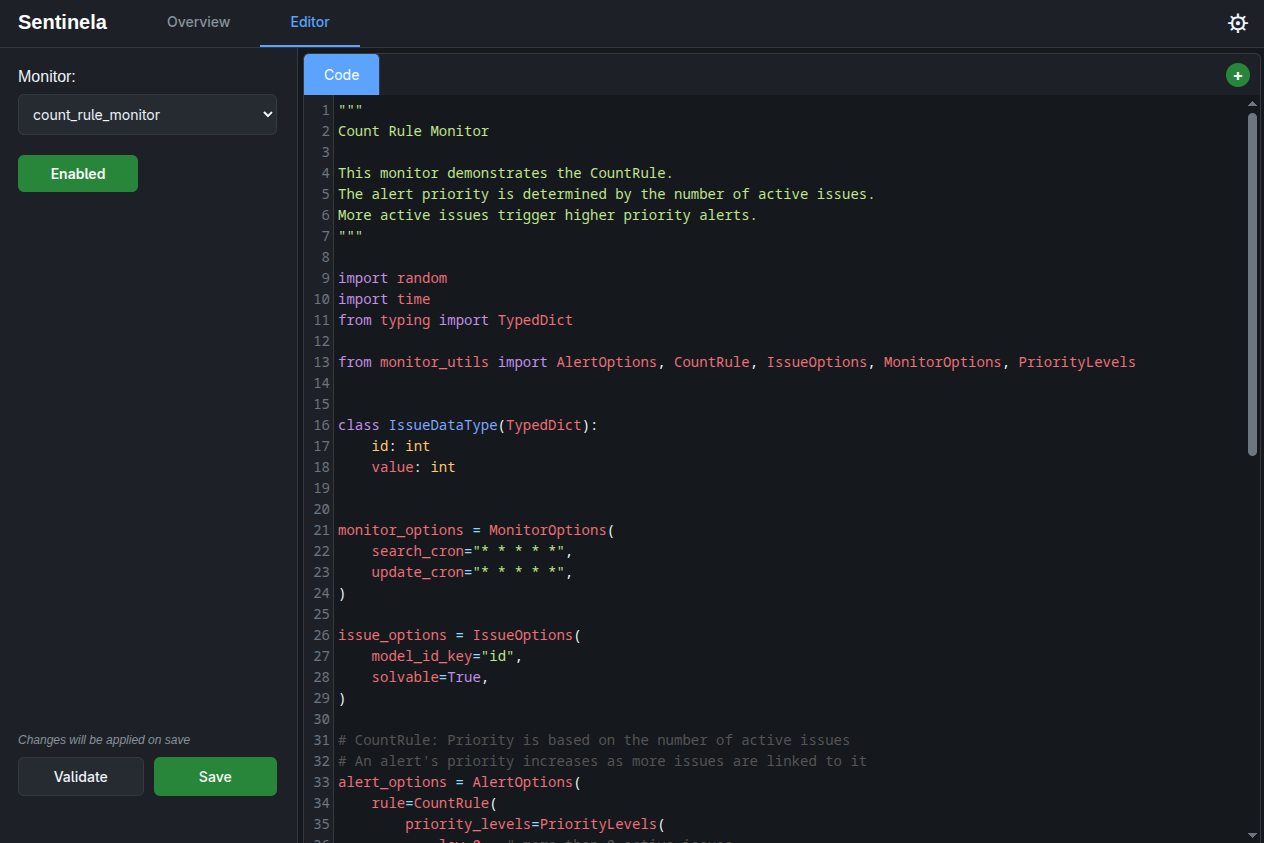
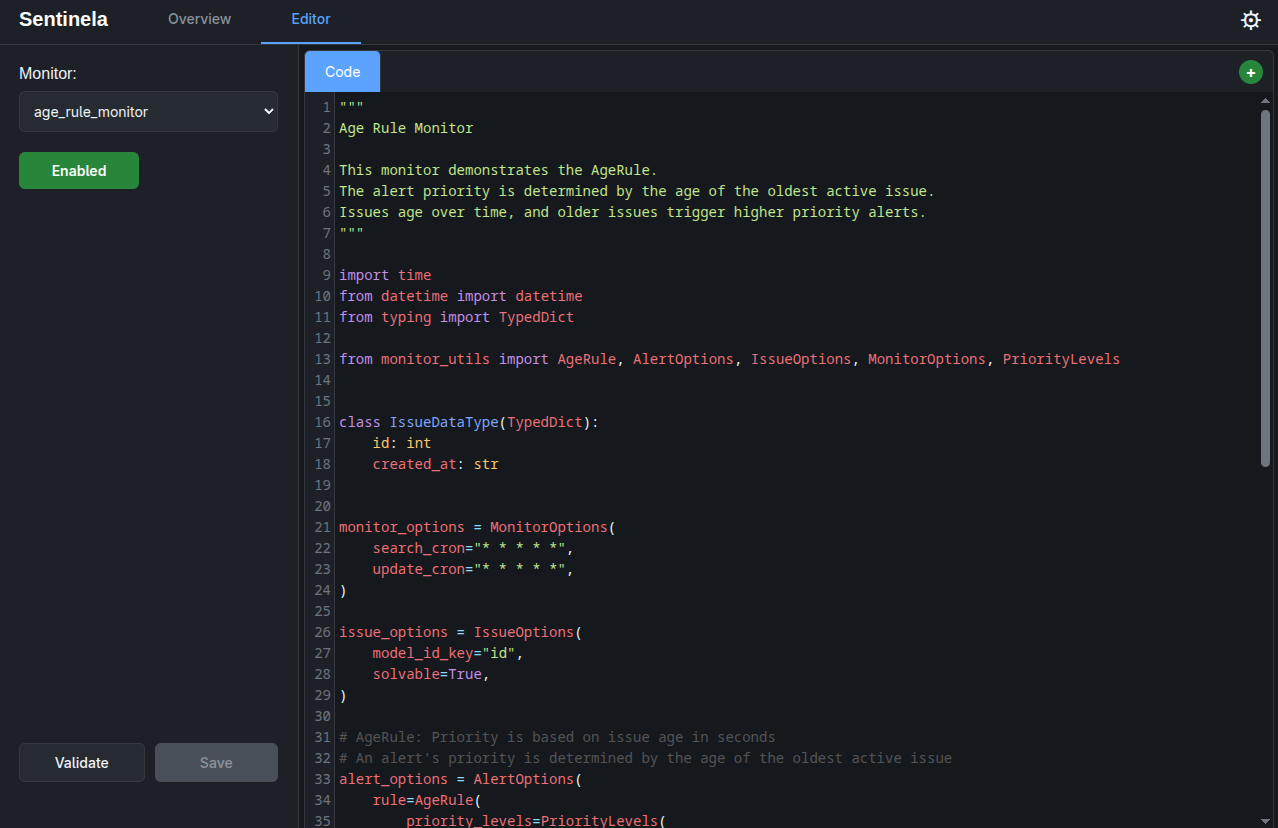
add monitor documentation to dashboard

diff --git a/src/components/http_server/dashboard/css/styles.css b/src/components/http_server/dashboard/css/styles.css
@@ -73,11 +73,18 @@ body {
     border-bottom-color: #58a6ff;
 }
 
+#overview-section {
+    display: flex;
+    flex-direction: column;
+    height: calc(100vh - 50px);
+}
+
 .overview-container {
     display: flex;
     gap: 0;
-    padding: 5px;
-    height: calc(100vh - 50px);
+    padding: 5px 5px 0;
+    flex: 1;
+    min-height: 0;
     overflow: hidden;
     position: relative;
 }
@@ -972,28 +979,33 @@ option.monitor-disabled {
     background-color: #58a6ff;
 }
 
-/* List container scrollbar styling (overview columns) */
-.list-container {
+/* Shared scrollbar styling */
+.list-container,
+.doc-section-body {
     scrollbar-color: #6e7681 #161b22;
     scrollbar-width: thin;
 }
 
-.list-container::-webkit-scrollbar {
+.list-container::-webkit-scrollbar,
+.doc-section-body::-webkit-scrollbar {
     width: 8px;
     height: 8px;
 }
 
-.list-container::-webkit-scrollbar-track {
+.list-container::-webkit-scrollbar-track,
+.doc-section-body::-webkit-scrollbar-track {
     background: #161b22;
 }
 
-.list-container::-webkit-scrollbar-thumb {
+.list-container::-webkit-scrollbar-thumb,
+.doc-section-body::-webkit-scrollbar-thumb {
     background-color: #6e7681;
     border-radius: 6px;
     border: 2px solid #0d1117;
 }
 
-.list-container::-webkit-scrollbar-thumb:hover {
+.list-container::-webkit-scrollbar-thumb:hover,
+.doc-section-body::-webkit-scrollbar-thumb:hover {
     background-color: #58a6ff;
 }
 
@@ -1094,4 +1106,180 @@ option.monitor-disabled {
 .json-null {
     color: #ff7b72;
     font-style: italic;
+}
+
+.resize-handle-h {
+    height: 10px;
+    cursor: row-resize;
+    flex-shrink: 0;
+    position: relative;
+    display: flex;
+    align-items: center;
+    justify-content: center;
+    user-select: none;
+}
+
+.resize-handle-h::before {
+    display: none;
+}
+
+.doc-section {
+    border: 1px solid #30363d;
+    border-radius: 6px;
+    background-color: #161b22;
+    margin: 0 5px 5px;
+    display: flex;
+    flex-direction: column;
+    min-height: 60px;
+    max-height: 50vh;
+    flex: 0 0 auto;
+}
+
+.doc-section.collapsed {
+    min-height: 0;
+    height: auto !important;
+    margin-top: 10px;
+}
+
+.doc-section-header {
+    display: flex;
+    align-items: center;
+    gap: 10px;
+    padding: 10px 16px;
+    border-bottom: 1px solid #30363d;
+    background-color: #1c2128;
+    flex-shrink: 0;
+    cursor: pointer;
+    user-select: none;
+}
+
+.doc-section.collapsed .doc-section-header {
+    border-bottom: none;
+}
+
+.doc-section-header h3 {
+    color: #f0f6fc;
+    font-size: 14px;
+    font-weight: 600;
+    margin: 0;
+}
+
+.doc-section-subtitle {
+    color: #8b949e;
+    font-size: 12px;
+}
+
+.doc-section-body {
+    padding: 12px 16px 16px;
+    overflow-y: auto;
+    color: #f0f6fc;
+    font-size: 14px;
+    line-height: 1.6;
+    scrollbar-color: #6e7681 #161b22;
+    scrollbar-width: thin;
+}
+
+.doc-section-body :first-child {
+    margin-top: 0;
+}
+
+.doc-section-body h1,
+.doc-section-body h2,
+.doc-section-body h3,
+.doc-section-body h4,
+.doc-section-body h5,
+.doc-section-body h6 {
+    color: #f0f6fc;
+    margin: 16px 0 8px;
+    font-weight: 600;
+}
+
+.doc-section-body h1 { font-size: 20px; }
+.doc-section-body h2 { font-size: 17px; }
+.doc-section-body h3 { font-size: 15px; }
+
+.doc-section-body p {
+    margin: 8px 0;
+}
+
+.doc-section-body a {
+    color: #58a6ff;
+}
+
+.doc-section-body a:hover {
+    text-decoration: underline;
+}
+
+.doc-section-body code {
+    background-color: #21262d;
+    padding: 2px 6px;
+    border-radius: 4px;
+    font-family: 'Monaco', 'Menlo', 'Ubuntu Mono', monospace;
+    font-size: 13px;
+    color: #ffa657;
+}
+
+.doc-section-body pre {
+    background-color: #0d1117;
+    border: 1px solid #30363d;
+    border-radius: 6px;
+    padding: 12px;
+    overflow-x: auto;
+    margin: 12px 0;
+}
+
+.doc-section-body pre code {
+    background: none;
+    padding: 0;
+    color: #f0f6fc;
+}
+
+.doc-section-body ul,
+.doc-section-body ol {
+    padding-left: 24px;
+    margin: 8px 0;
+}
+
+.doc-section-body li {
+    margin: 4px 0;
+}
+
+.doc-section-body blockquote {
+    border-left: 3px solid #58a6ff;
+    padding-left: 12px;
+    margin: 12px 0;
+    color: #8b949e;
+}
+
+.doc-section-body table {
+    border-collapse: collapse;
+    width: 100%;
+    margin: 12px 0;
+}
+
+.doc-section-body th,
+.doc-section-body td {
+    border: 1px solid #30363d;
+    padding: 8px 12px;
+    text-align: left;
+}
+
+.doc-section-body th {
+    background-color: #21262d;
+    font-weight: 600;
+}
+
+.doc-section-body td {
+    background-color: #0d1117;
+}
+
+.doc-section-body hr {
+    border: none;
+    border-top: 1px solid #30363d;
+    margin: 16px 0;
+}
+
+.doc-section-body img {
+    max-width: 100%;
+    border-radius: 6px;
 }

diff --git a/src/components/http_server/dashboard/js/dashboard.js b/src/components/http_server/dashboard/js/dashboard.js
@@ -31,6 +31,7 @@ function dashboardApp() {
         },
         showSettingsModal: false,
         settingsHandler: null,
+        docCollapsed: false,
 
         desktopNotificationsSupported: false,
         desktopNotificationsPermission: 'default',
@@ -173,6 +174,14 @@ function dashboardApp() {
             return this.settingsHandler.closeSettingsModal();
         },
 
+        renderMarkdown(text) {
+            if (!text) return '';
+            if (typeof marked !== 'undefined' && marked.parse) {
+                return marked.parse(text);
+            }
+            return `<pre style="white-space:pre-wrap;color:#f0f6fc">${text}</pre>`;
+        },
+
         saveSettingsAndClose() {
             if (!this.settingsHandler) {
                 this.initializeSettings();
@@ -199,15 +208,12 @@ function dashboardApp() {
         },
 
         initializeResizeHandles() {
-            const handles = document.querySelectorAll('.resize-handle');
-            if (!handles.length) return;
-
-            const getMaxWidth = (columnId) => {
-                return (columnId === 'monitors-column' || columnId === 'alerts-column') ? 600 : Infinity;
-            };
-
-            handles.forEach(handle => {
+            document.querySelectorAll('.resize-handle').forEach(handle => {
                 let startX, startWidth, column;
+
+                const getMaxWidth = (columnId) => {
+                    return (columnId === 'monitors-column' || columnId === 'alerts-column') ? 600 : Infinity;
+                };
 
                 const onMouseMove = (e) => {
                     if (!column) return;
@@ -232,6 +238,44 @@ function dashboardApp() {
 
                     startX = e.clientX;
                     startWidth = column.offsetWidth;
+                    handle.classList.add('dragging');
+
+                    document.addEventListener('mousemove', onMouseMove);
+                    document.addEventListener('mouseup', onMouseUp);
+
+                    e.preventDefault();
+                    e.stopPropagation();
+                });
+            });
+
+            document.querySelectorAll('.resize-handle-h').forEach(handle => {
+                let startY, startHeight, target;
+
+                const onMouseMove = (e) => {
+                    if (!target) return;
+                    const newHeight = Math.max(60, startHeight + (startY - e.clientY));
+                    target.style.height = `${newHeight}px`;
+                    e.preventDefault();
+                };
+
+                const onMouseUp = () => {
+                    if (target) {
+                        const key = `doc-section-height`;
+                        localStorage.setItem(key, target.style.height);
+                    }
+                    handle.classList.remove('dragging');
+                    document.removeEventListener('mousemove', onMouseMove);
+                    document.removeEventListener('mouseup', onMouseUp);
+                    target = null;
+                };
+
+                handle.addEventListener('mousedown', (e) => {
+                    const selector = handle.dataset.resize;
+                    target = selector ? document.querySelector(`.${selector}`) : null;
+                    if (!target) return;
+
+                    startY = e.clientY;
+                    startHeight = target.offsetHeight;
                     handle.classList.add('dragging');
 
                     document.addEventListener('mousemove', onMouseMove);

diff --git a/src/components/http_server/dashboard/index.html b/src/components/http_server/dashboard/index.html
@@ -170,6 +170,15 @@
                 </div>
             </div>
         </div>
+        <div class="resize-handle-h" data-resize="doc-section" x-show="selectedMonitor && selectedMonitorDetails?.documentation && !docCollapsed"></div>
+        <div class="doc-section" :class="{ 'collapsed': docCollapsed || !(selectedMonitor && selectedMonitorDetails?.documentation) }"
+             x-init="docCollapsed = localStorage.getItem('doc-collapsed') === 'true'; if(!docCollapsed) $el.style.height = localStorage.getItem('doc-section-height') || ''">
+            <div class="doc-section-header" @click="if(selectedMonitor && selectedMonitorDetails?.documentation) { docCollapsed = !docCollapsed; localStorage.setItem('doc-collapsed', docCollapsed) }">
+                <h3>Documentation</h3>
+                <span class="doc-section-subtitle" x-show="selectedMonitorDetails?.name" x-text="selectedMonitorDetails?.name"></span>
+            </div>
+            <div class="doc-section-body" x-show="!docCollapsed && selectedMonitor && selectedMonitorDetails?.documentation" x-html="renderMarkdown(selectedMonitorDetails?.documentation)"></div>
+        </div>
     </div>
 
     <div id="editor-section" class="section-content" x-show="currentSection === 'editor'">
@@ -310,6 +319,8 @@
     <script src="https://cdnjs.cloudflare.com/ajax/libs/codemirror/5.65.2/mode/sql/sql.min.js"></script>
     <script src="https://cdnjs.cloudflare.com/ajax/libs/codemirror/5.65.2/mode/xml/xml.min.js"></script>
     <script src="https://cdnjs.cloudflare.com/ajax/libs/codemirror/5.65.2/mode/yaml/yaml.min.js"></script>
+
+    <script src="https://cdnjs.cloudflare.com/ajax/libs/marked/9.1.6/marked.min.js"></script>
 
     <script defer src="https://cdn.jsdelivr.net/npm/alpinejs@3.x.x/dist/cdn.min.js"></script>
 